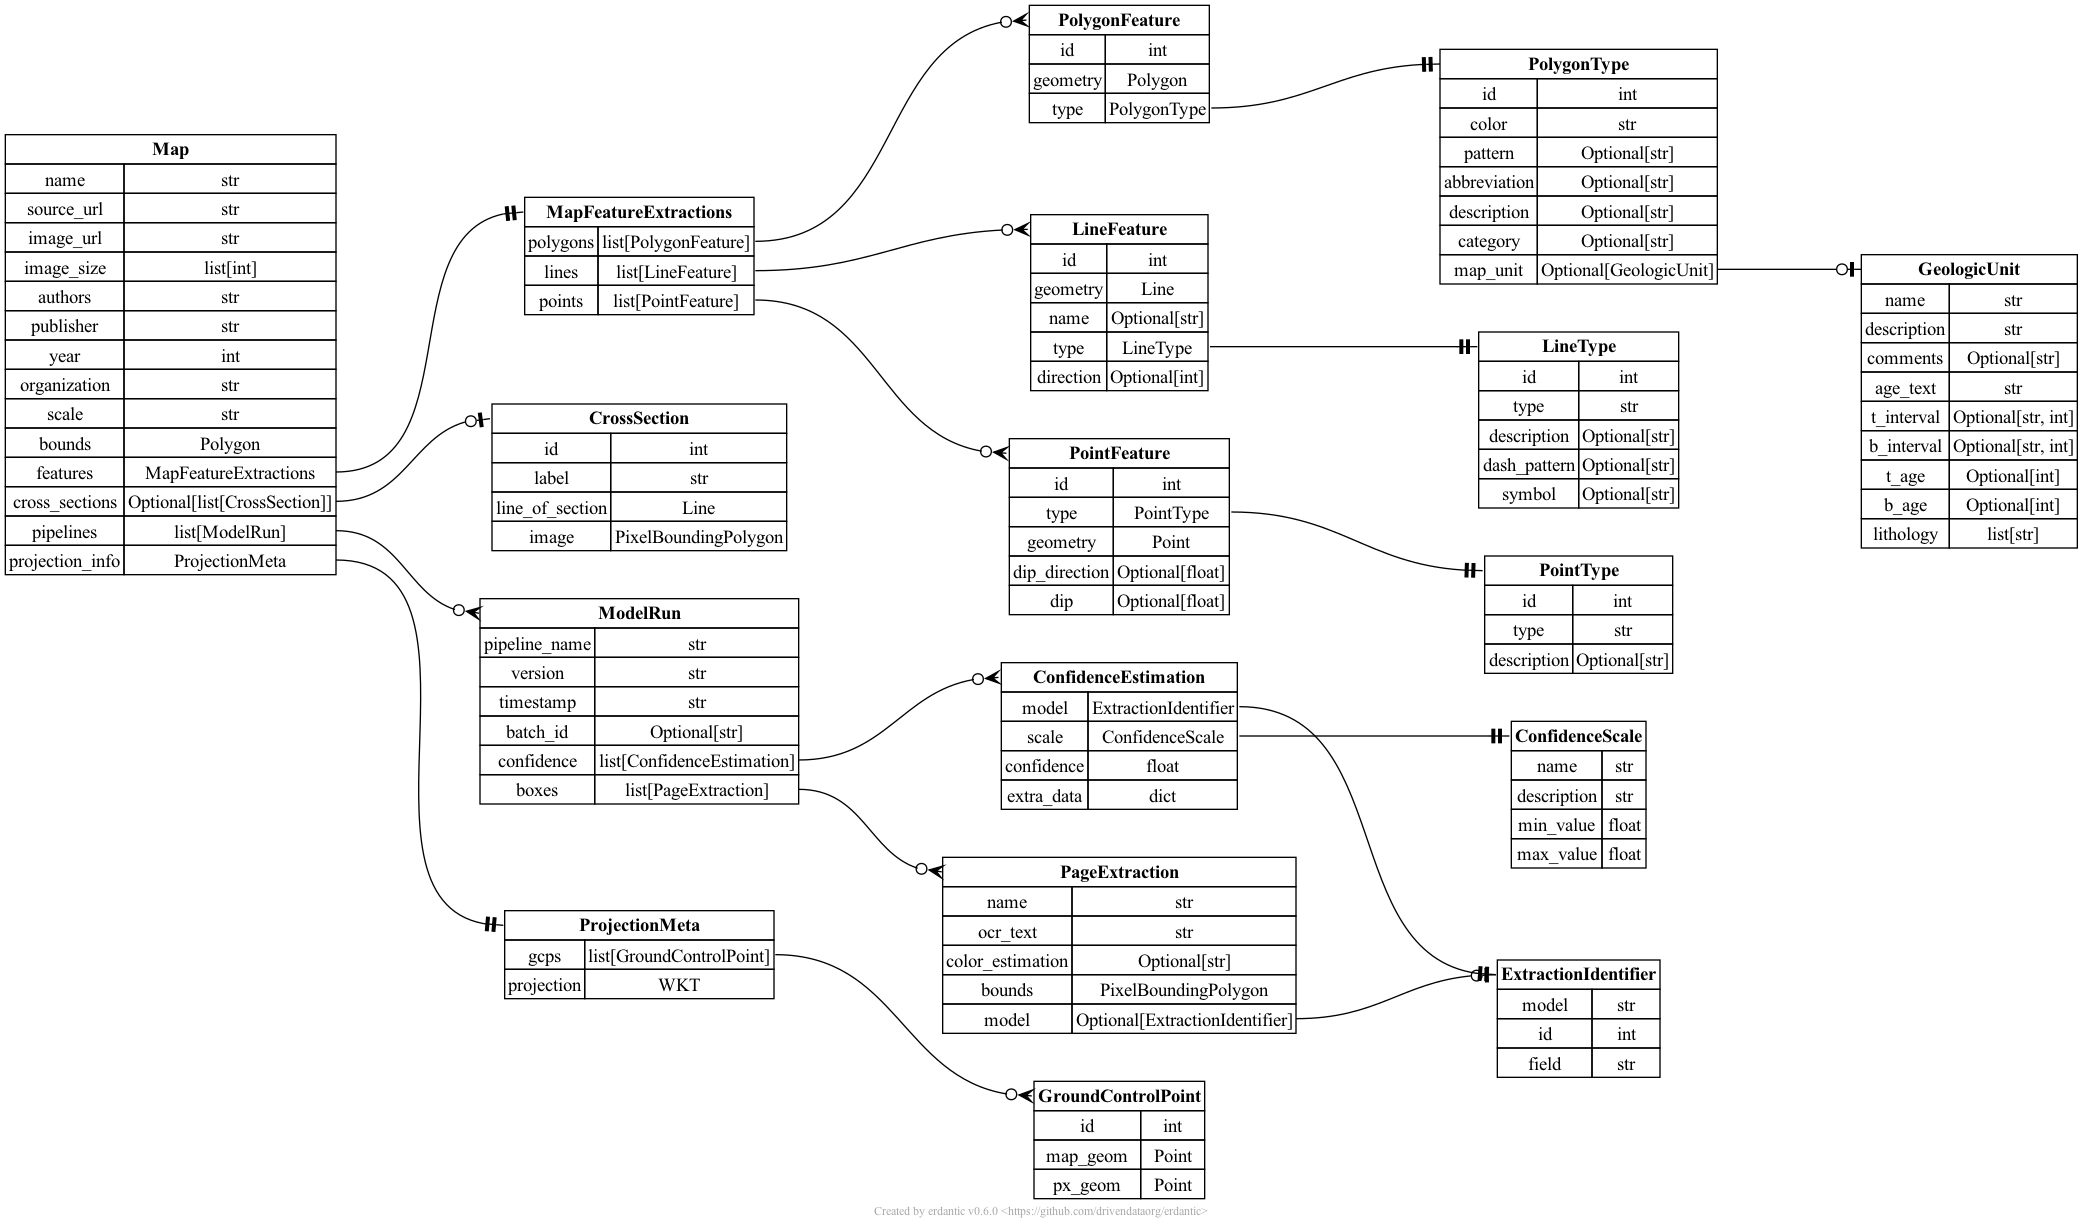
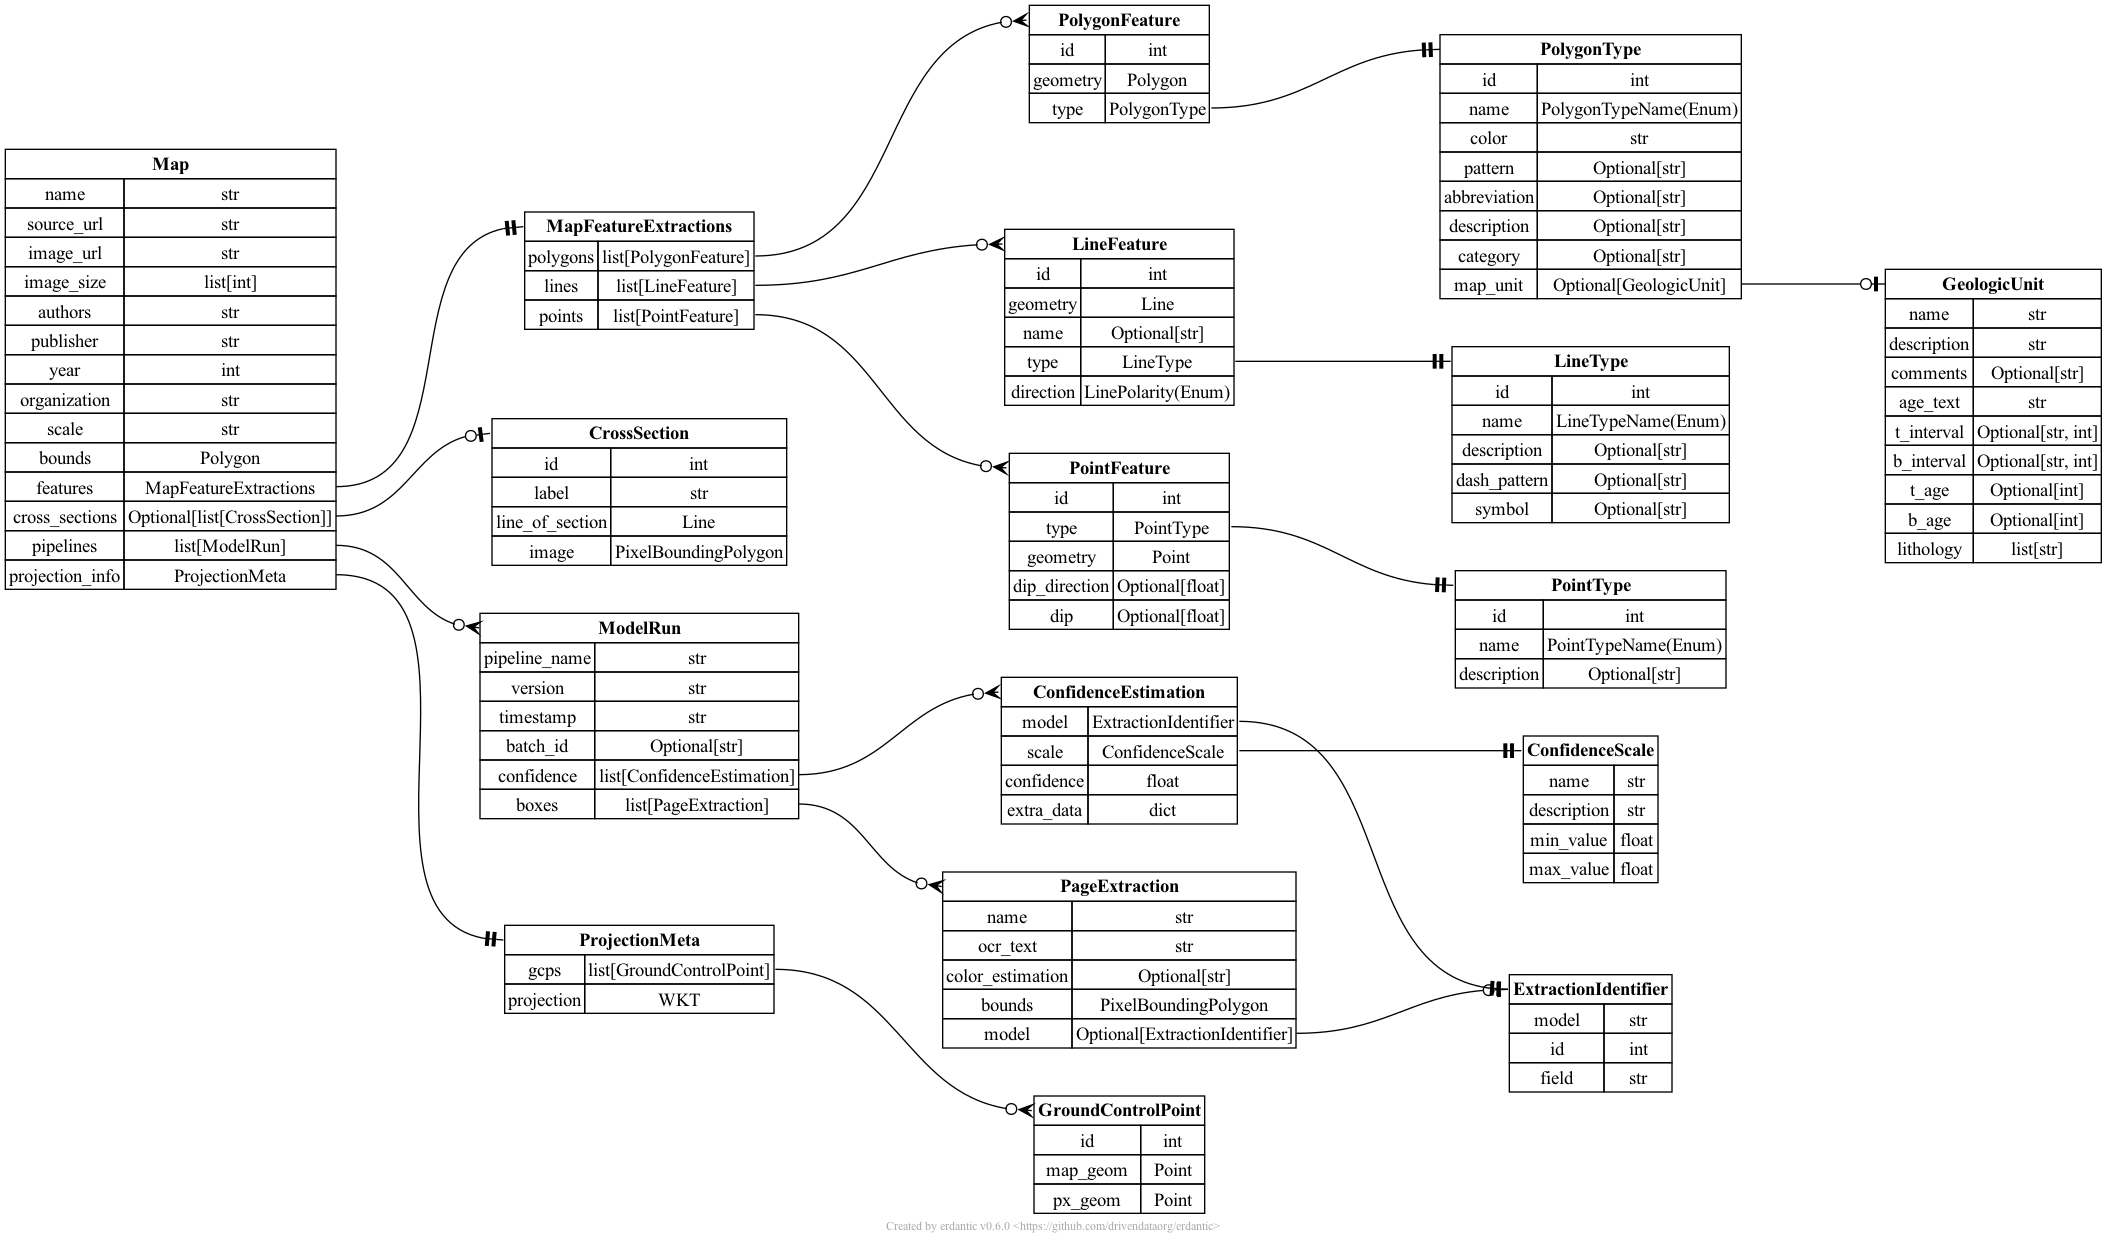
Move towards enums for point/line/polygon types
- Clarify bounded sets of values
- These enums can evolve/expand as needed

diff --git a/ta1/output.py b/ta1/output.py
@@ -1,5 +1,6 @@
 from pydantic import BaseModel, Field
 from typing import Optional, TypeVar
+from enum import Enum
 
 Polygon = TypeVar("Polygon")
 Line = TypeVar("Line")
@@ -35,10 +36,19 @@ class GeologicUnit(BaseModel):
     )
 
 
+class PolygonTypeName(Enum):
+    geologic_unit = "geologic unit"
+    tailings = "tailings"
+    outcrop = "outcrop"
+    water = "body of water"
+    other = "other"
+    unknown = "unknown"
+
 class PolygonType(BaseModel):
     """Information about a polygon extracted from the map legend."""
 
     id: int = Field(..., description="Internal ID")
+    name: PolygonTypeName = Field(..., description="Type of feature")
 
     color: str = Field(..., description="Color extracted from map/legend")
     pattern: Optional[str] = Field(..., description="Pattern extracted from map/legend")
@@ -61,13 +71,43 @@ class PolygonFeature(BaseModel):
     geometry: Polygon = Field(..., description="Polygon geometry")
     type: PolygonType = Field(..., description="Polygon type information")
 
+class LineTypeName(Enum):
+    anticline = "anticline"
+    antiform = "antiform"
+    normal_fault = "normal fault"
+    reverse_fault = "reverse fault"
+    thrust_fault = "thrust fault"
+    left_lateral_strike_slip_fault = "left-lateral strike-slip fault"
+    right_lateral_strike_slip_fault = "right-lateral strike-slip fault"
+    strike_slip_fault = "strike-slip fault"
+    fault = "fault"
+    lineament = "lineament"
+    scarp = "scarp"
+    syncline = "syncline"
+    synform = "synform"
+    bed = "bed"
+    crater = "crater"
+    caldera = "caldera"
+    dike = "dike"
+    escarpment = "escarpment"
+    fold = "fold"
+    other = "other"
+    unknown = "unknown"
+
+class LinePolarity(Enum):
+    """
+    Positive: ticks are to right of line/directed towards endpoint
+    Negative: ticks are to left of line/directed away from endpoint"""
+    positive = 1
+    negative = -1
+    undirected = 0
 
 class LineType(BaseModel):
     """Line type information."""
 
     id: int = Field(..., description="Internal ID")
 
-    type: str = Field(
+    name: LineTypeName = Field(
         ...,
         description="Name of this line type",
         examples=["contact", "normal fault", "thrust fault"],
@@ -88,16 +128,32 @@ class LineFeature(BaseModel):
     )
 
     type: LineType = Field(..., description="Line type")
-    direction: Optional[int] = Field(
-        ..., description="Line direction", examples=[1, -1]
+    direction: LinePolarity = Field(
+        ..., description="Line polarity", examples=[1, -1]
     )
 
+
+class PointTypeName(Enum):
+    bedding = "bedding"
+    foliation = "foliation"
+    lineation = "lineation"
+    joint = "joint"
+    fault = "fault"
+    fracture = "fracture"
+    fold_axis = "fold axis"
+    sample_location = "sample location"
+    outcrop = "outcrop"
+    mine_site = "mine site"
+    contact = "contact"
+    cleavage = "cleavage"
+    other = "other"
+    unknown = "unknown"
 
 class PointType(BaseModel):
     """Point type information."""
 
     id: int = Field(..., description="Internal ID")
-    type: str = Field(
+    name: PointTypeName = Field(
         ...,
         description="Name of this point type",
         examples=["outcrop", "borehole", "geochron", "strike/dip"],

diff --git a/ta1/output.md b/ta1/output.md
@@ -155,10 +155,9 @@ NOTE: This would be nice to have but isn't required (especially for the initial 
 - **`type`**: Line type.
   - **All of**
     - : Refer to *[LineType](#LineType)*.
-- **`direction`**: Line direction.
-  - **Any of**
-    - *integer*
-    - *null*
+- **`direction`**: Line polarity.
+  - **All of**
+    - : Refer to *[LinePolarity](#LinePolarity)*.
 
   Examples:
   ```json
@@ -177,7 +176,9 @@ NOTE: This would be nice to have but isn't required (especially for the initial 
 ### Properties
 
 - **`id`** *(integer)*: Internal ID.
-- **`type`** *(string)*: Name of this line type.
+- **`name`**: Name of this line type.
+  - **All of**
+    - : Refer to *[LineTypeName](#LineTypeName)*.
 
   Examples:
   ```json
@@ -281,7 +282,9 @@ NOTE: This would be nice to have but isn't required (especially for the initial 
 ### Properties
 
 - **`id`** *(integer)*: Internal ID.
-- **`type`** *(string)*: Name of this point type.
+- **`name`**: Name of this point type.
+  - **All of**
+    - : Refer to *[PointTypeName](#PointTypeName)*.
 
   Examples:
   ```json
@@ -324,6 +327,9 @@ NOTE: This would be nice to have but isn't required (especially for the initial 
 ### Properties
 
 - **`id`** *(integer)*: Internal ID.
+- **`name`**: Type of feature.
+  - **All of**
+    - : Refer to *[PolygonTypeName](#PolygonTypeName)*.
 - **`color`** *(string)*: Color extracted from map/legend.
 - **`pattern`**: Pattern extracted from map/legend.
   - **Any of**
